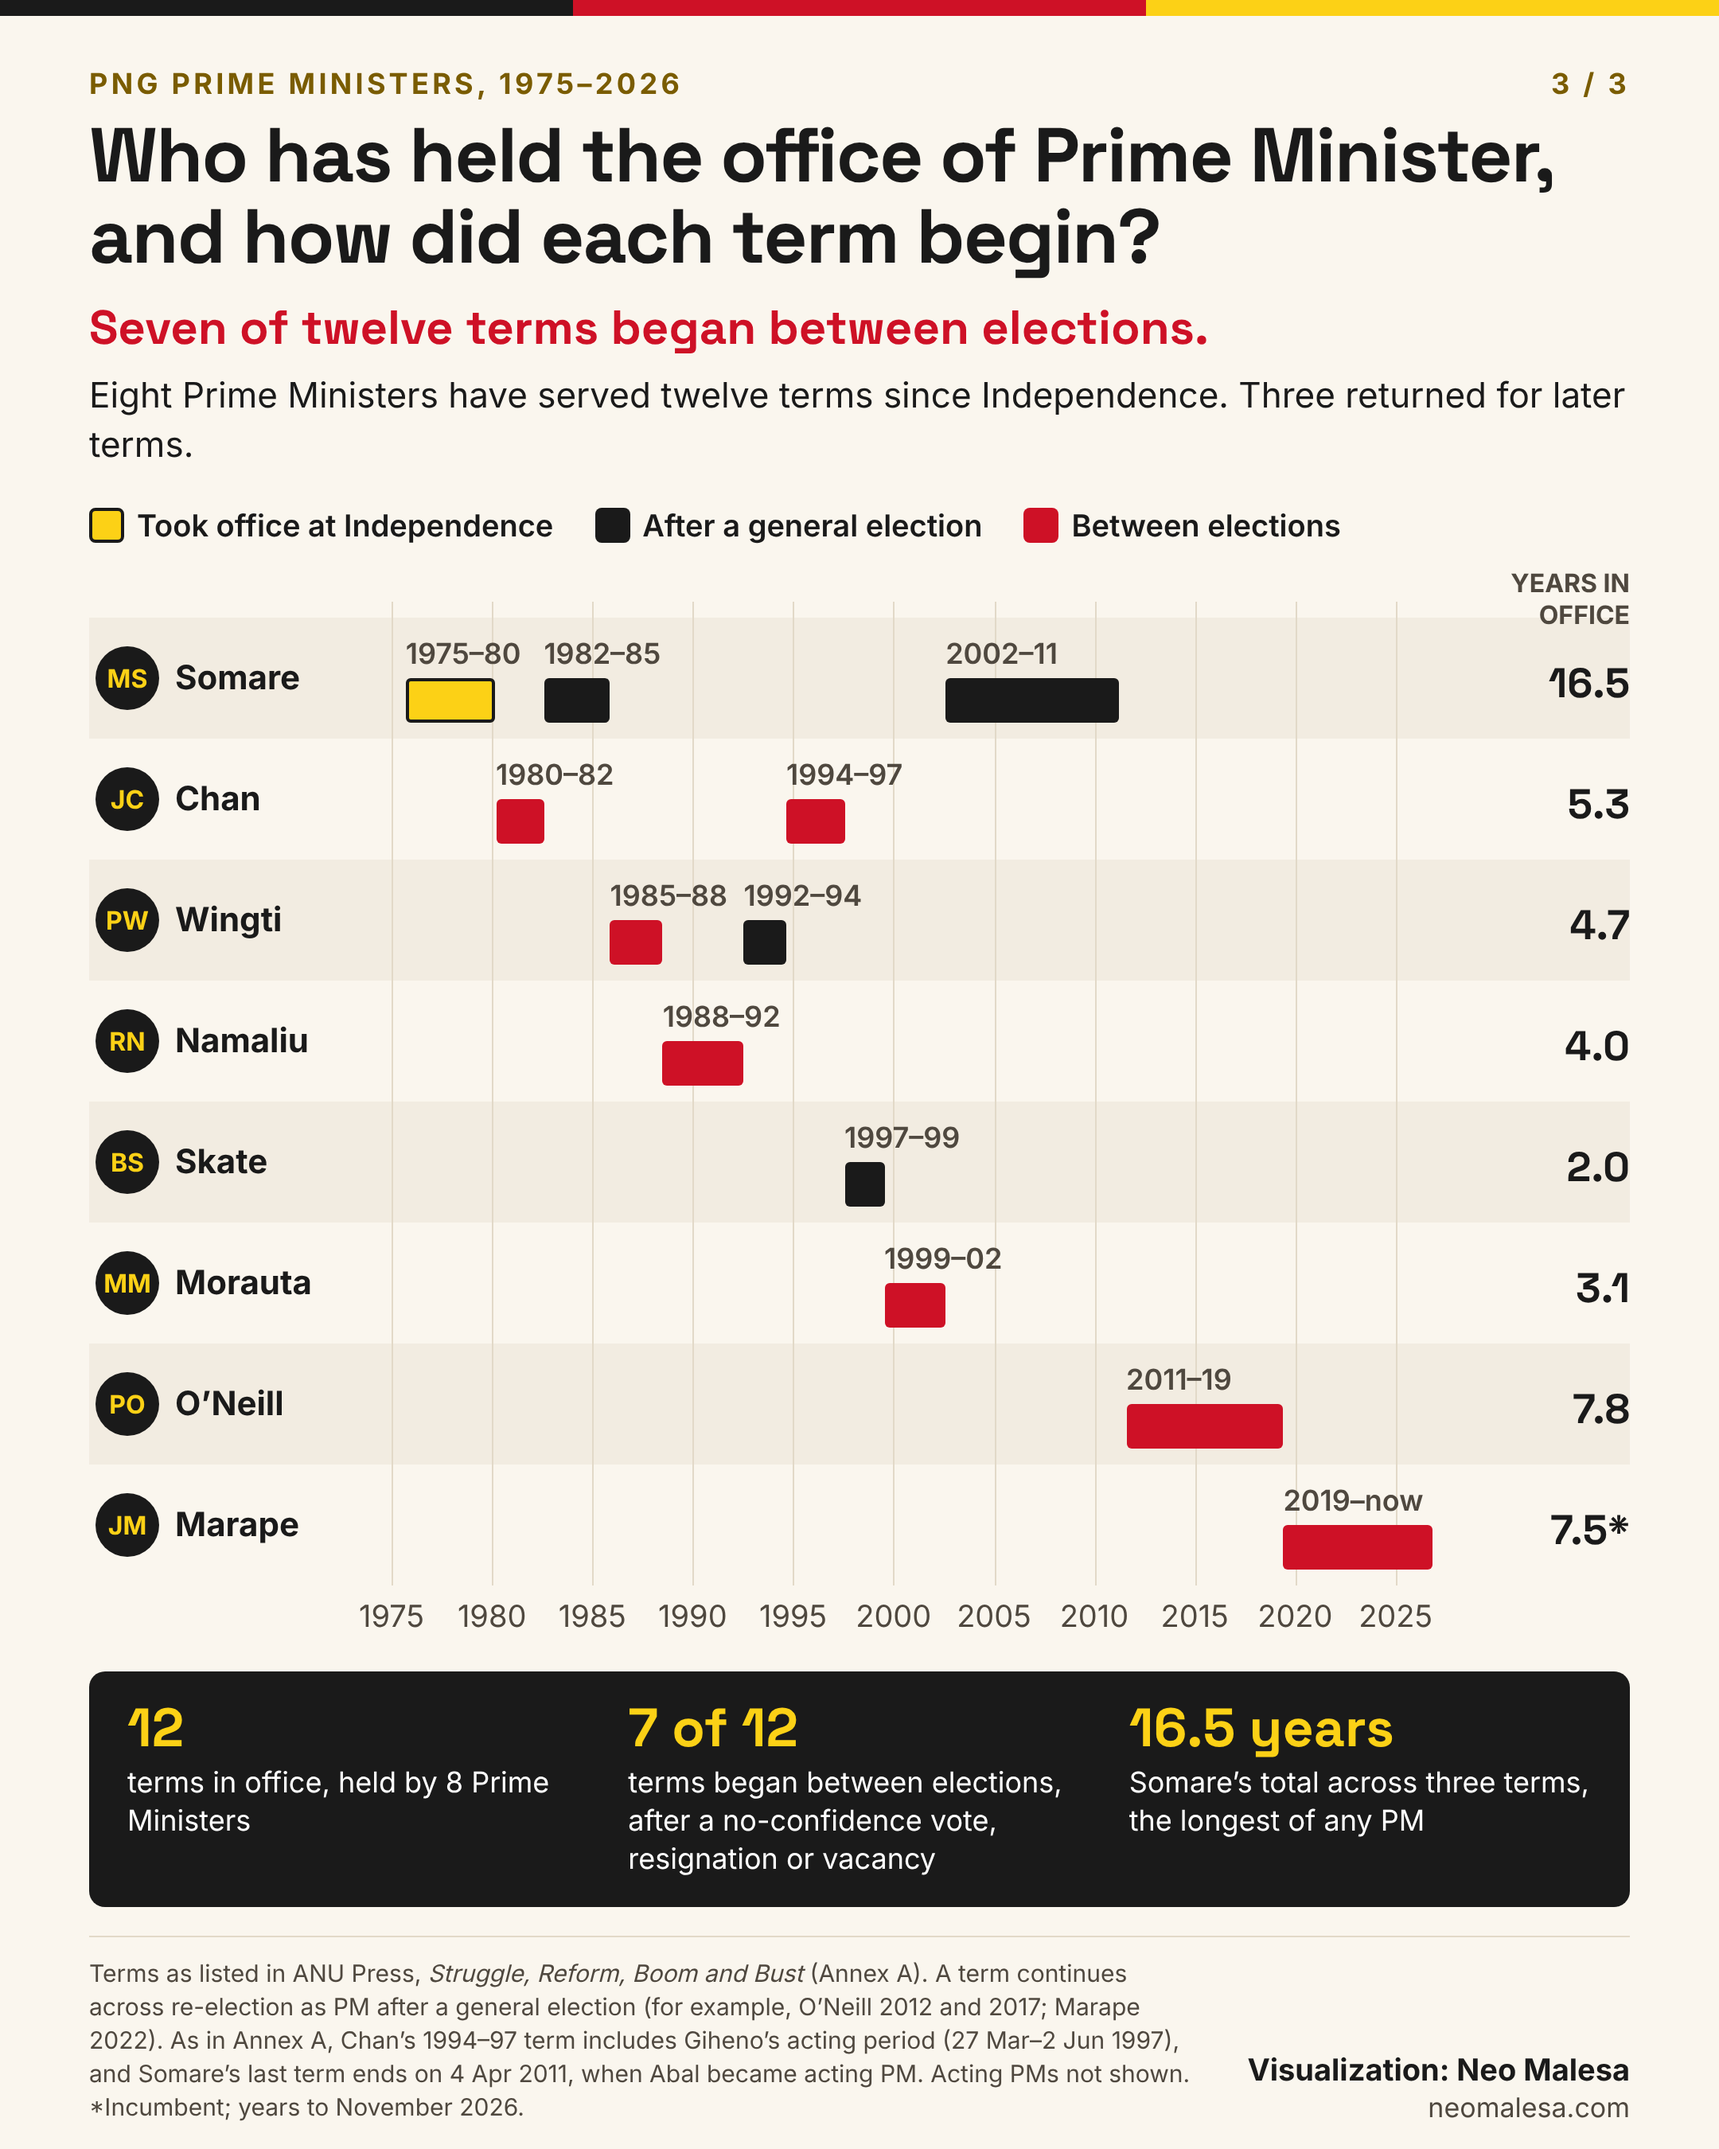
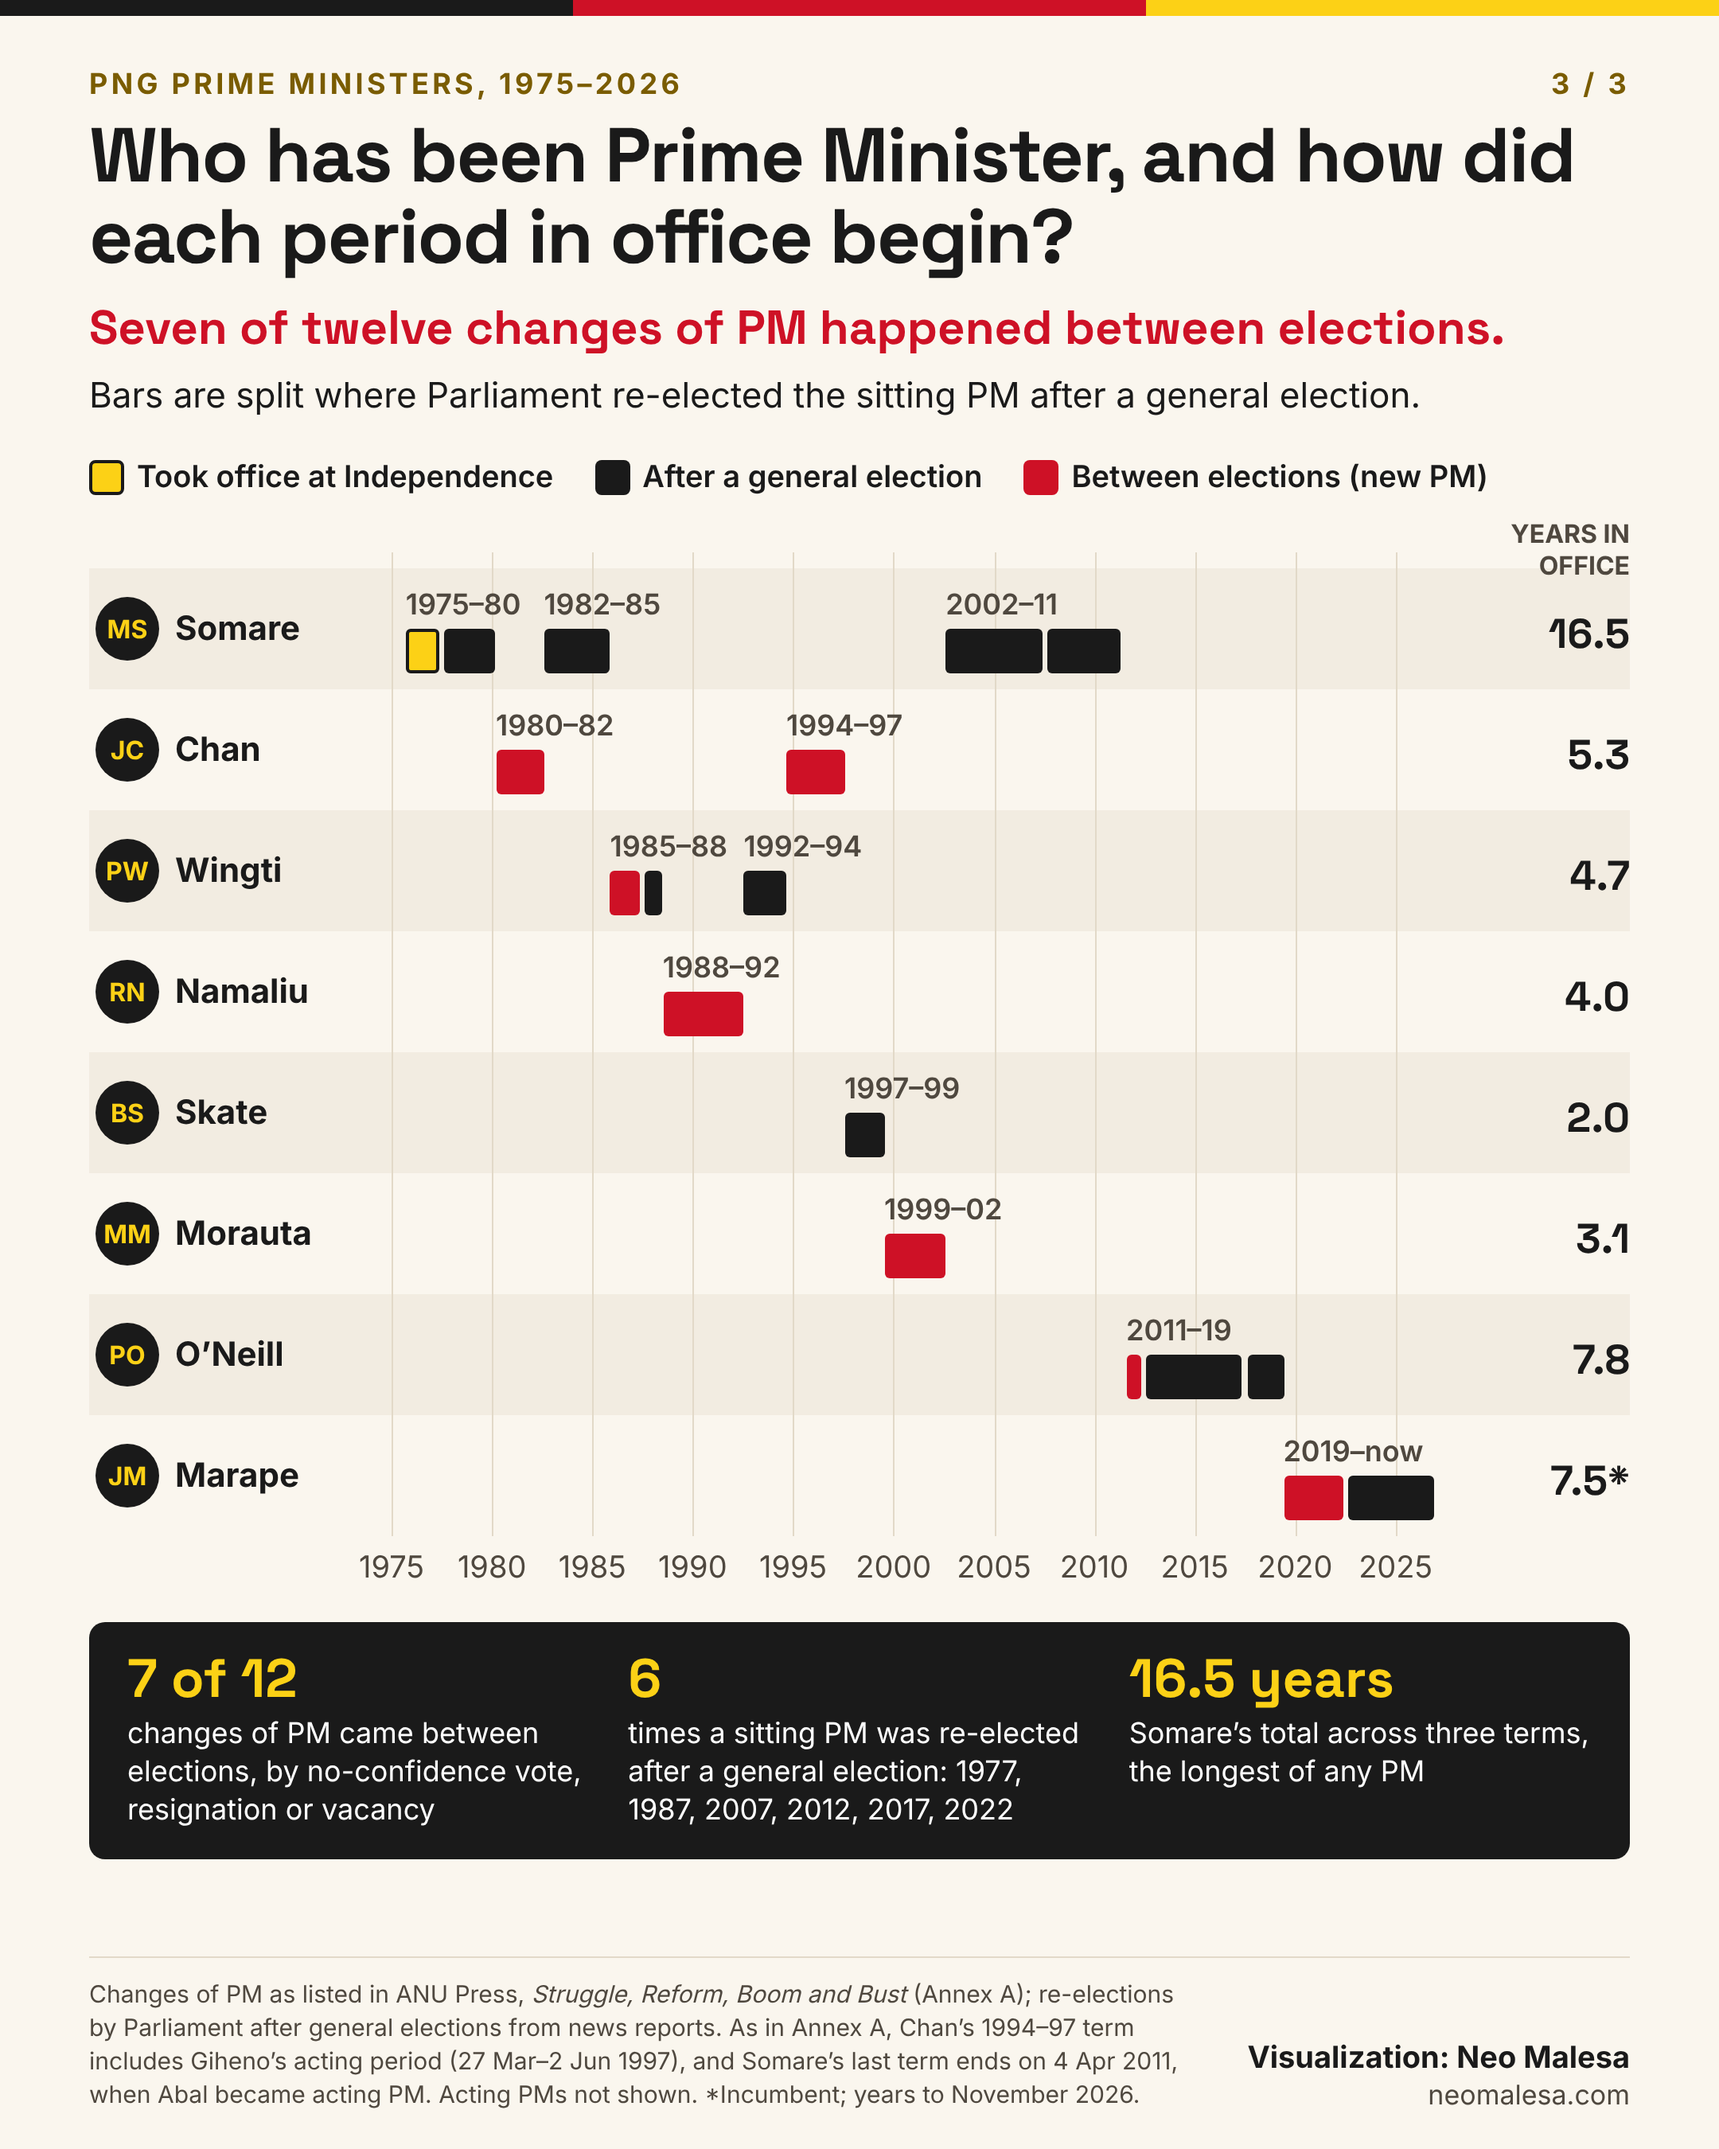
Split terms chart bars at each re-election after a general election
Marape's 2022 re-election (and five others) were hidden inside single
term bars. Bars now split into 18 periods coloured by how each began;
headline and stat cards rewritten to match. Updated alt text.

Claude-Session: https://claude.ai/code/session_01F1GorfEtQqYiEWmaz9GBJc

diff --git a/dataviz/pngpm-ages/index.html b/dataviz/pngpm-ages/index.html
@@ -85,7 +85,7 @@
             src="pngpm-terms-2026.png"
             width="2160" height="2700"
             loading="lazy" decoding="async"
-            alt="Timeline: who has held the office of Prime Minister from 1975 to 2026, and how each term began. Seven of 12 terms began between elections, after a no-confidence vote, resignation or vacancy. Somare: 1975–80, at Independence; 1982–85 and 2002–11, after general elections; 16.5 years in total, the longest of any Prime Minister. Chan: 1980–82 and 1994–97, both between elections; 5.3 years. Wingti: 1985–88, between elections, and 1992–94, after a general election; 4.7 years. Namaliu: 1988–92, between elections; 4.0 years. Skate: 1997–99, after a general election; 2.0 years. Morauta: 1999–2002, between elections; 3.1 years. O’Neill: 2011–19, between elections; 7.8 years. Marape: 2019 to now, between elections; 7.5 years to November 2026."
+            alt="Timeline: who has been Prime Minister from 1975 to 2026, and how each period in office began. Bars are split where Parliament re-elected the sitting Prime Minister after a general election. Seven of 12 changes of Prime Minister came between elections, by no-confidence vote, resignation or vacancy. Sitting Prime Ministers were re-elected after general elections six times: 1977, 1987, 2007, 2012, 2017 and 2022. Somare: 1975–80, taking office at Independence and re-elected in 1977; 1982–85, after a general election; 2002–11, after a general election and re-elected in 2007; 16.5 years in total, the longest of any Prime Minister. Chan: 1980–82 and 1994–97, both between elections; 5.3 years. Wingti: 1985–88, between elections and re-elected in 1987; 1992–94, after a general election; 4.7 years. Namaliu: 1988–92, between elections; 4.0 years. Skate: 1997–99, after a general election; 2.0 years. Morauta: 1999–2002, between elections; 3.1 years. O’Neill: 2011–19, between elections, re-elected in 2012 and 2017; 7.8 years. Marape: 2019 to now, between elections, re-elected in 2022; 7.5 years to November 2026."
           />
         </picture>
       </a>
